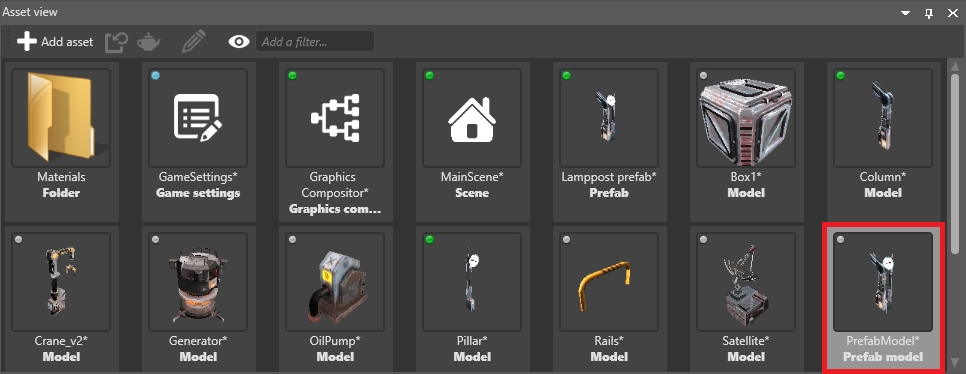
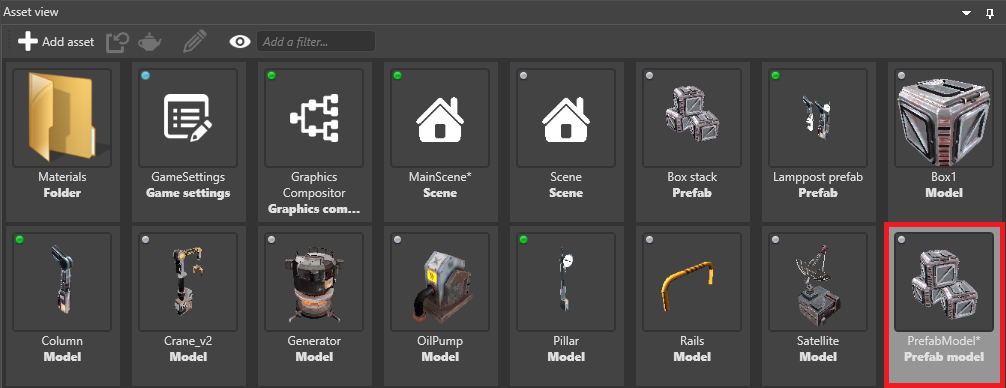
[Prefabs] rewrite, add more screenshots

diff --git a/en/manual/game-studio/prefabs/use-prefabs.md b/en/manual/game-studio/prefabs/use-prefabs.md
@@ -20,7 +20,13 @@ By default, Game Studio creates an empty parent entity with the prefab's entitie
 
 This is useful because you can manage the prefab entities as a group and maintain their relative positions. For example, imagine you have a car prefab assembled from several entities (a body, seats, four wheels, etc). You want its component entities to stay grouped together as you move the car around the scene. You can do this by moving the prefab parent entity.
 
-If you don't want to create a parent entity with the prefab, hold **Alt** when you drop the prefab into the scene. This is useful if you don't care about the relative positions of the prefab's entities and don't need to move them together as a group. For example, imagine you have a prefab composed of several crate entities arranged in a random fashion. It's not important that the crates maintain their relative position after you place them; in fact, several identical stacks of "randomly" arranged crates looks odd. In this case, a parent entity is unnecessary. Instead, you can create several instances of the prefab, then re-arrange their individual crate entities however you like.
+If you don't want to create a parent entity with the prefab, hold **Alt** when you drop the prefab into the scene. This is useful if you don't care about the relative positions of the prefab's entities and don't need to move them together as a group. For example, imagine you have a prefab composed of several crate entities arranged in a random fashion. It's not important that the crates maintain their relative position after you place them; in fact, several identical stacks of "randomly" arranged crates looks artificial. 
+
+| Relative positions maintained  | Relative positions ignored |
+|----------|----------|
+| ![Boxes duplicated](media/boxes-duplicated.png) | ![Boxes duplicated](media/boxes-random.png)
+
+In this case, a parent entity is unnecessary. Instead, you can create several instances of the prefab, then re-arrange their individual crate entities to create the effect you need.
 
 ## Break link to prefab
 

diff --git a/en/manual/game-studio/prefabs/prefab-models.md b/en/manual/game-studio/prefabs/prefab-models.md
@@ -3,9 +3,9 @@
 <span class="label label-doc-level">Beginner</span>
 <span class="label label-doc-audience">Designer</span>
 
-**Prefab models** convert prefabs to single models. This is useful for optimization, as Xenko only renders the model instead of the separate entities in the prefab. When you make changes to the prefab, Game Studio updates the prefab model automatically.
+**Prefab models** convert prefabs to single drawcalls. This is useful for optimization, as Xenko only renders the final model instead of the separate entities in the prefab. When you make changes to the prefab, Game Studio regenerates the prefab model.
 
-Currently, prefab models don't inherit elements such as lights, colliders, or other components - they're only models, and have to be used just like other models. For example, if you have a prefab comprising two models and a light component, the prefab model creates a single model from the two models and ignores the light component. If you need to add components to a prefab model, add them to the prefab model itself.
+Prefab models don't inherit elements such as lights, colliders, or other components - they're only models, and have to be used just like other models. For example, if you have a prefab comprising two models with physics components, the prefab model creates a single model from the two models and ignores the physics components. If you need to add components to a prefab model, add them to the prefab model itself.
 
 ## Create a prefab model
 
